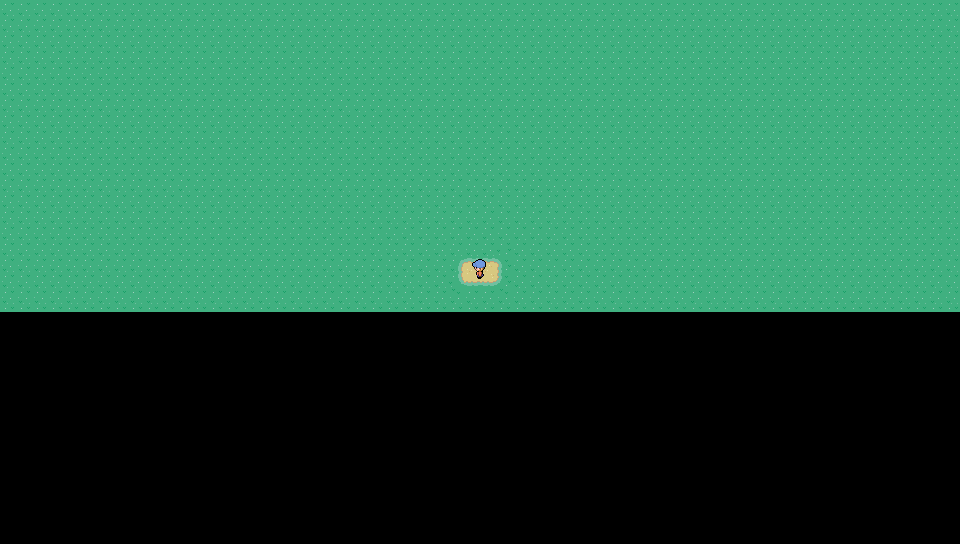
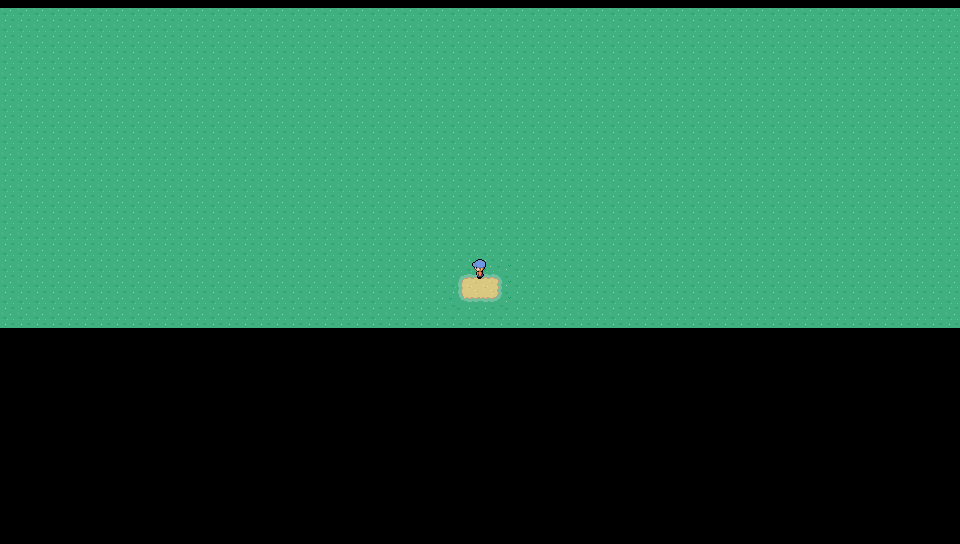
test: capture a formerly funnelled seam lane crossing

Changed region(s): [[0.0, 0.4688, 1.0, 0.625], [0.0, 0.0, 1.0, 0.0312]]

diff --git a/tools/world-seam-capture-plan.ts b/tools/world-seam-capture-plan.ts
@@ -32,12 +32,13 @@ export interface WorldSeamCrossingPlan {
 export const WORLD_SEAM_CROSSINGS: readonly WorldSeamCrossingPlan[] = [
   {
     orientation: "horizontal",
-    // A portal-only fixed-destination rectangle whose aligned y=17 lane is
-    // now direct; the other two source cells still take the legacy fade.
+    // A fixed-destination rectangle that funnels y=16..18 to y=17 upstream.
+    // y=16 used to fade to the fixed landing; it now crosses to its own
+    // coordinate-continuous neighbour cell (39,16).
     sourceMap: "classic_aerolume_city",
     targetMap: "classic_route_5",
     sourceSide: "west",
-    start: [1, 17],
+    start: [1, 16],
     button: 0x0080,
     facing: 1,
     worldDelta: [-2, 0],
